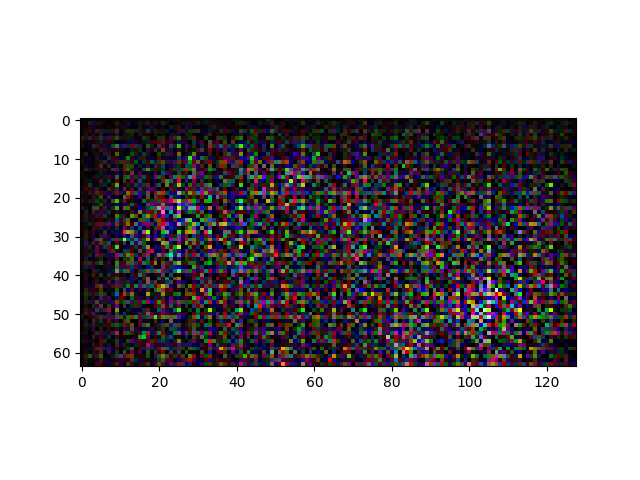
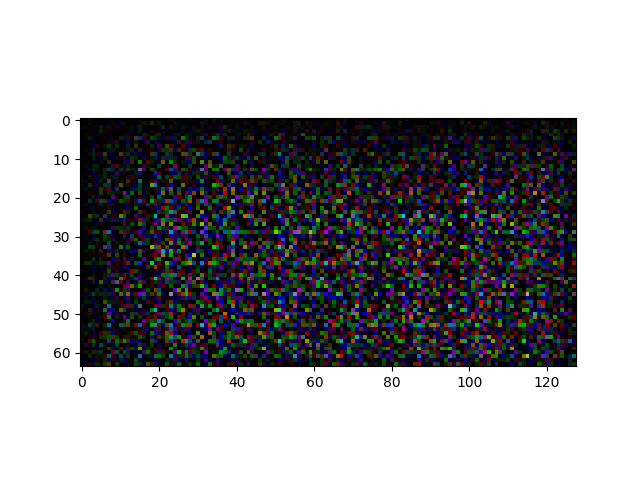
trained images

diff --git a/main.py b/main.py
@@ -48,7 +48,7 @@ def alt_train(model, X_train):
         # ---------------------
         #  Train Generator 
         # ---------------------
-        for _ in range(20): 
+        for _ in range(5): 
             idx = np.random.randint(0, X_train.shape[0], opt.batch_size)
             imgs = X_train[idx]
             sketch = mask_image(imgs)
